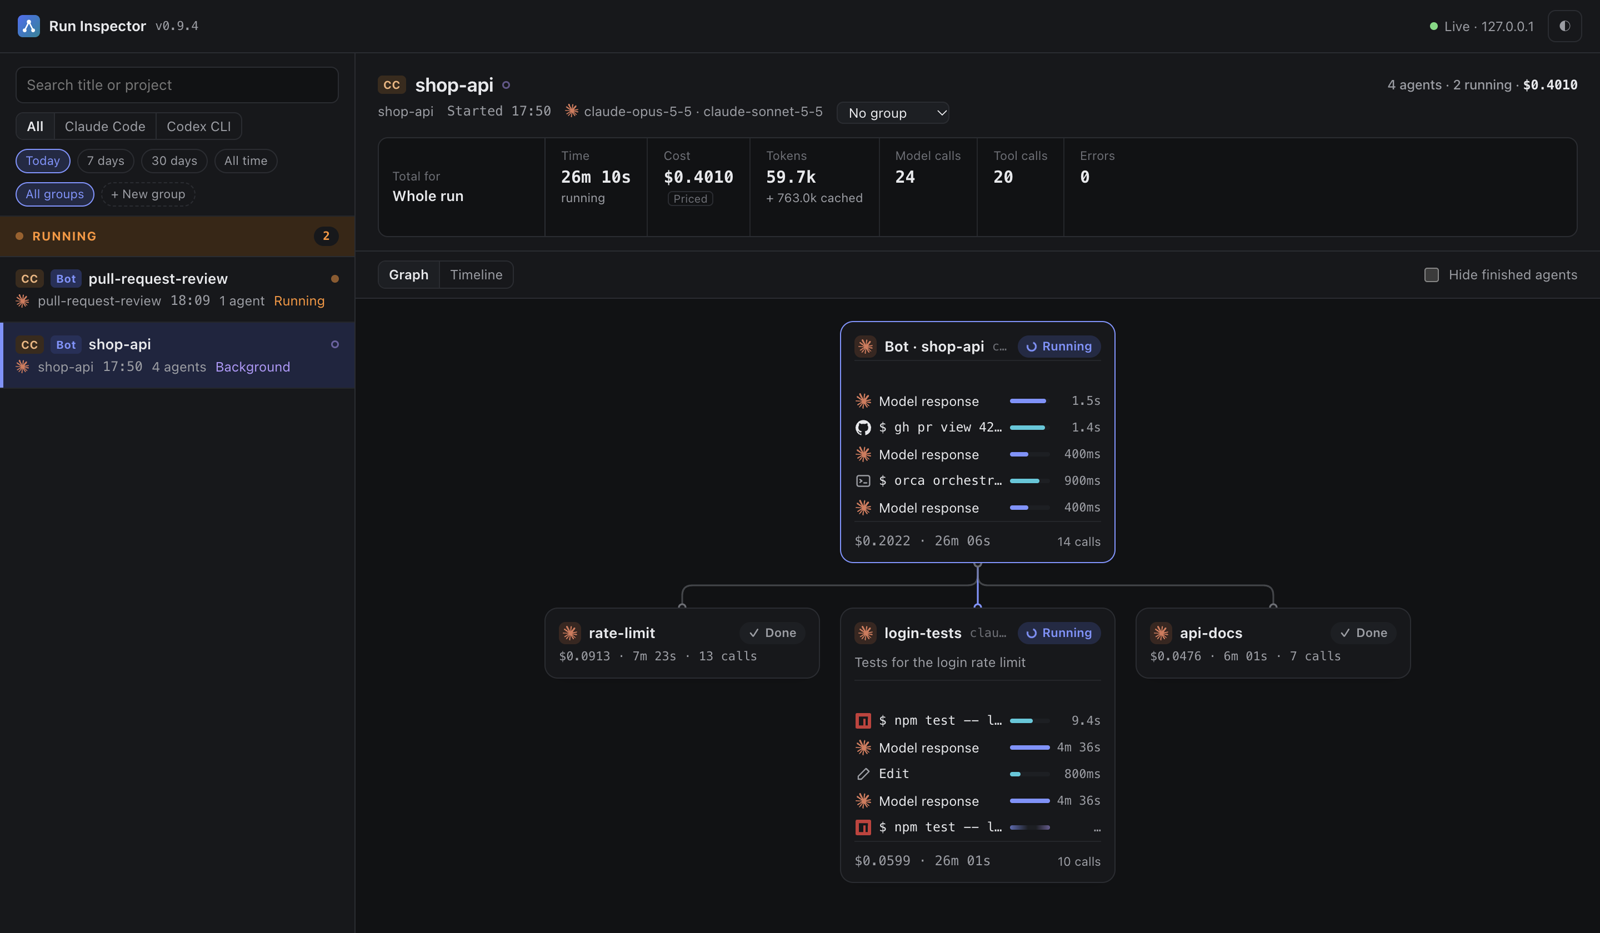
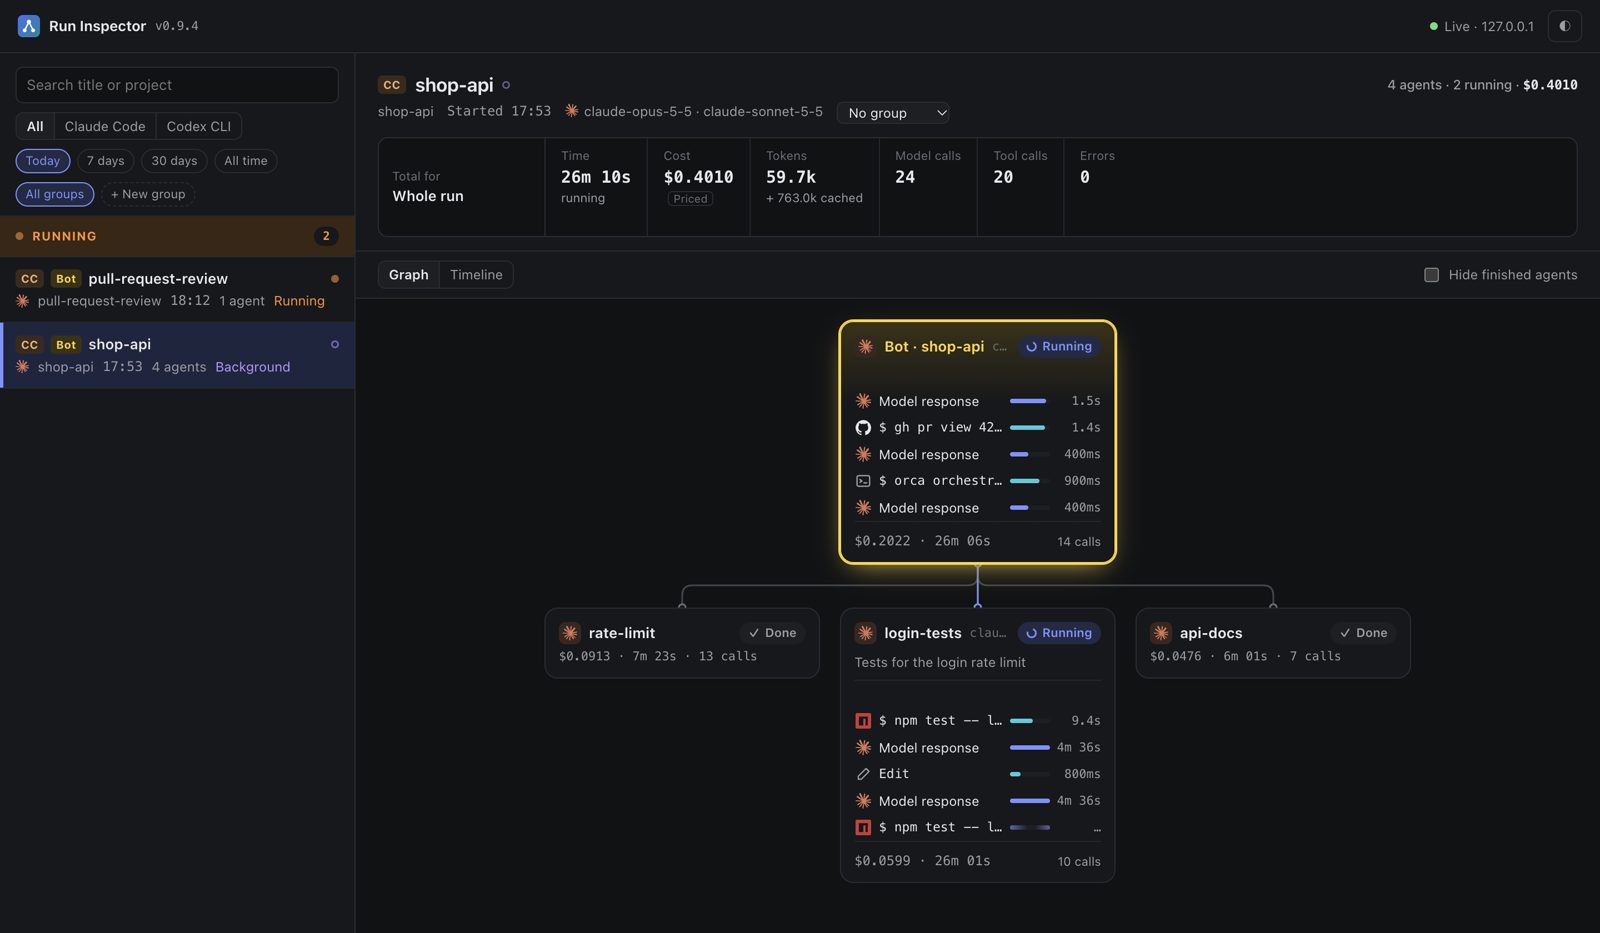
feat(web): Orca bots in gold — badge, framed and tinted graph card

Changed region(s): [[0.5, 0.3419, 0.7188, 0.6217], [0.0312, 0.3419, 0.0625, 0.4041], [0.0312, 0.2797, 0.0625, 0.3108]]

diff --git a/web/app.css b/web/app.css
@@ -6,6 +6,7 @@
   --llm: #4c6ef5; --llm-soft: #dbe3ff; --tool: #0c8599; --tool-soft: #d3f0f3;
   --err: #d6336c; --err-soft: #fde5ee; --ok: #2b8a3e; --run: #e8590c; --run-soft: #fff0e6;
   --sel: #eef2ff; --flow: #8b5cf6; --edge: #4c6ef5;
+  --bot: #b08400; --bot-soft: #fff3c4; /* Orca bots: gold, a hue no status uses */
   --brand-anthropic: #D97757; --brand-anthropic-bg: #fbeee8; --brand-google: #8E75B2;
   --badge-cc-bg: #f3e8dd; --badge-cc: #9a4f16; --badge-cx-bg: #e3eefc; --badge-cx: #1f5fa8;
   --mono: ui-monospace, SFMono-Regular, Menlo, Consolas, monospace;
@@ -19,6 +20,7 @@
   --llm: #7c93ff; --llm-soft: #26305a; --tool: #3bc9db; --tool-soft: #143a40;
   --err: #ff6b9a; --err-soft: #3d1a27; --ok: #69db7c; --run: #ff922b; --run-soft: #3a2614;
   --sel: #1f2540; --flow: #b197fc; --edge: #7c93ff;
+  --bot: #ffd43b; --bot-soft: #3a3214;
   --brand-anthropic: #E08A6C; --brand-anthropic-bg: #3a2620; --brand-google: #a993cf;
   --badge-cc-bg: #3a2a1c; --badge-cc: #f0b27a; --badge-cx-bg: #1a2b40; --badge-cx: #8cc0ff;
   color-scheme: dark;
@@ -31,6 +33,7 @@
     --llm: #7c93ff; --llm-soft: #26305a; --tool: #3bc9db; --tool-soft: #143a40;
     --err: #ff6b9a; --err-soft: #3d1a27; --ok: #69db7c; --run: #ff922b; --run-soft: #3a2614;
     --sel: #1f2540; --flow: #b197fc; --edge: #7c93ff;
+    --bot: #ffd43b; --bot-soft: #3a3214;
     --brand-anthropic: #E08A6C; --brand-anthropic-bg: #3a2620; --brand-google: #a993cf;
     --badge-cc-bg: #3a2a1c; --badge-cc: #f0b27a; --badge-cx-bg: #1a2b40; --badge-cx: #8cc0ff;
     color-scheme: dark;
@@ -126,7 +129,7 @@ body.resizing { cursor: col-resize; user-select: none; }
 .badge { font-size: 10px; font-weight: 700; padding: 1px 5px; border-radius: 4px; letter-spacing: .02em; flex: none; }
 .badge.cc { background: var(--badge-cc-bg); color: var(--badge-cc); }
 .badge.cx { background: var(--badge-cx-bg); color: var(--badge-cx); }
-.badge.bot { background: var(--llm-soft); color: var(--llm); }
+.badge.bot { background: var(--bot-soft); color: var(--bot); }
 .st-err { color: var(--err); } .st-run { color: var(--run); } .st-run.bg { color: var(--flow); }
 .note { padding: 16px 14px; color: var(--muted); }
 
@@ -286,7 +289,11 @@ body.resizing { cursor: col-resize; user-select: none; }
 .g-card.sel { border-color: var(--accent); box-shadow: 0 0 0 3px var(--accent-soft); }
 .g-card[data-status="failed"] { border-color: color-mix(in srgb, var(--err) 55%, var(--line)); }
 .g-card.watch { border-style: dashed; }
-.g-card.bot { border-color: var(--llm); }
+/* an Orca bot: gold frame and wash, so it never reads as an ordinary orchestrator (or the selection) */
+.g-card.bot { border-color: var(--bot); box-shadow: 0 0 0 1.5px var(--bot), 0 8px 24px -10px var(--bot);
+  background: linear-gradient(180deg, var(--bot-soft), var(--panel) 72px); }
+.g-card.bot.sel { box-shadow: 0 0 0 1.5px var(--bot), 0 0 0 5px var(--bot-soft); }
+.g-card.bot .g-name { color: var(--bot); }
 .g-card.external { cursor: default; }
 .g-h { display: flex; align-items: center; gap: 7px; min-width: 0; height: 24px; }
 .g-name { font-weight: 650; overflow: hidden; text-overflow: ellipsis; white-space: nowrap; min-width: 0; }

diff --git a/CHANGELOG.md b/CHANGELOG.md
@@ -8,7 +8,7 @@ and this project adheres to [Semantic Versioning](https://semver.org/spec/v2.0.0
 
 ### Added
 
-- Orca bots and workers. A worker started with `orca orchestration worker-start` is folded into the session that started it (an agent node with the worker's own calls, sub-agents and cost; the `--task-title` shows on the card), joined by the task id in that call's result; a session that only quotes the ids links nothing. An Orca bot's session (run from `~/.orca/bots/<name>`) shows a Bot badge in the session list (its name stands in for a missing title), and its top graph card reads "Bot · <name>" instead of Orchestrator. The README has a new Orca bots section with a screenshot.
+- Orca bots and workers. A worker started with `orca orchestration worker-start` is folded into the session that started it (an agent node with the worker's own calls, sub-agents and cost; the `--task-title` shows on the card), joined by the task id in that call's result; a session that only quotes the ids links nothing. An Orca bot's session (run from `~/.orca/bots/<name>`) is drawn in gold: it shows a gold Bot badge in the session list (its name stands in for a missing title), and its top graph card, framed and tinted gold, reads "Bot · <name>" instead of Orchestrator. The README has a new Orca bots section with a screenshot.
 
 ## [0.9.4] - 2026-11-24
 

diff --git a/README.ko.md b/README.ko.md
@@ -44,7 +44,7 @@ npx agent-run-inspector
 
 Orca 봇은 오래 살아 있는 Claude Code 세션으로, 자기 워크트리에 작업자를 띄우고 다른 봇에게 일을 넘깁니다. 인스펙터는 봇과 그 작업자를 실행 하나로 보여 줍니다.
 
-- **Bot 배지**: 봇 세션(`~/.orca/bots/<이름>` 에서 도는 세션)은 세션 목록에 **Bot** 으로 표시되고 봇 이름으로 나옵니다. 그래프 맨 위 카드는 Orchestrator 대신 "Bot · <이름>" 입니다.
+- **Bot 배지**: 봇 세션(`~/.orca/bots/<이름>` 에서 도는 세션)은 세션 목록에 골드 **Bot** 배지로 표시되고 봇 이름으로 나옵니다. 그래프 맨 위 카드는 골드 테두리로 감싸이고 Orchestrator 대신 "Bot · <이름>" 으로 나옵니다.
 - **봇 아래 작업자**: `orca orchestration worker-start` 로 띄운 작업자마다 봇 아래 카드가 하나씩 생깁니다. 이름은 `--name`(없으면 워크스페이스 폴더 이름), 작업 내용은 `--task-title` 이고, 작업자 자신의 호출·비용·상태가 보입니다. 작업자 세션은 목록에 따로 나오지 않습니다.
 - **합계 하나**: 실행의 시간·비용·토큰에 작업자 몫이 들어갑니다. 작업자가 일하는 동안 봇도 실행 중으로 나옵니다.
 

diff --git a/README.md b/README.md
@@ -44,7 +44,7 @@ It opens the inspector in your browser and runs until you press Ctrl+C.
 
 Orca bots are long-lived Claude Code sessions that start workers in their own worktrees and hand work to other bots. The inspector shows a bot and its workers as one run:
 
-- **Bot badge**: a bot's session (run from `~/.orca/bots/<name>`) is marked **Bot** in the session list and named after the bot, and its top card in the graph reads "Bot · <name>" instead of Orchestrator.
+- **Bot badge**: a bot's session (run from `~/.orca/bots/<name>`) is marked with a gold **Bot** badge in the session list and named after the bot, and its top card in the graph is framed in gold and reads "Bot · <name>" instead of Orchestrator.
 - **Workers under their bot**: each worker started with `orca orchestration worker-start` is a card under the bot, named by `--name` (or its workspace folder) with its `--task-title` as the task, and shows its own calls, cost and status. Its session is not listed on its own.
 - **One total**: the run's time, cost and tokens include the workers. The bot keeps running while a worker does.
 
